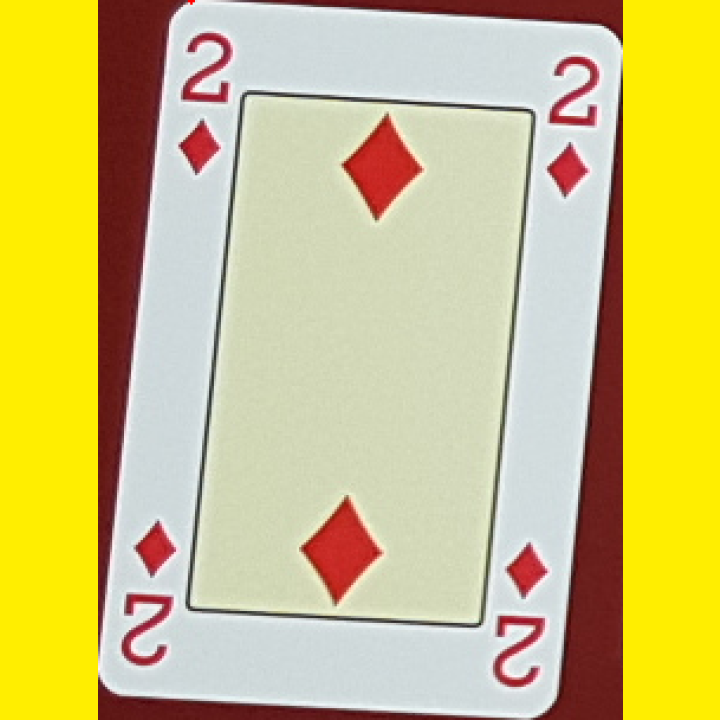
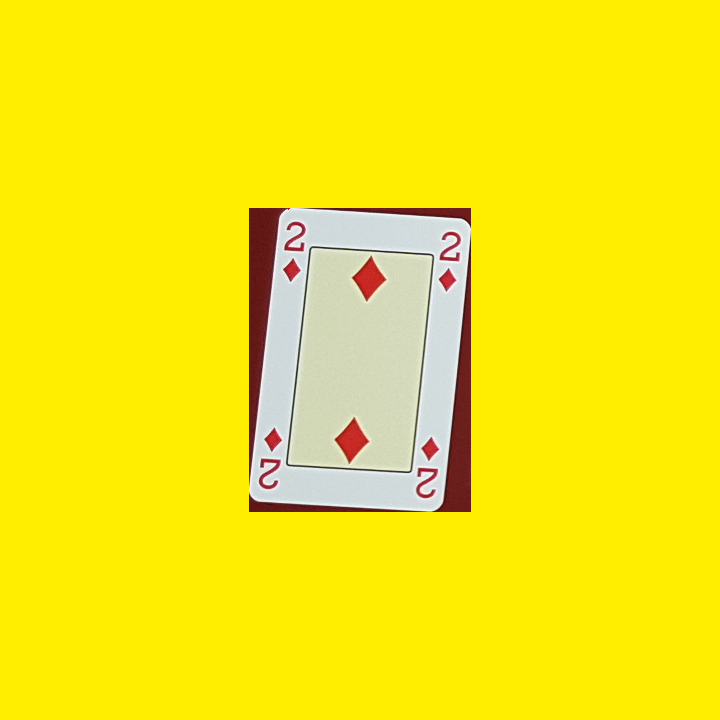
fixed 720transform

diff --git a/ml_solitaire/transform720.py b/ml_solitaire/transform720.py
@@ -21,7 +21,10 @@ def transform_720(img):
 
     #gør input 720 bredde eller højde
     #allerede firkantet
-    if(height==width):
+    if((height < 720) and (width < 720)):
+        scaledimg = image720
+    
+    elif(height==width):
         dimensioner = (720, 720)
         scaledimg = cv2.resize(image720, dimensioner, interpolation = cv2.INTER_AREA)
 
